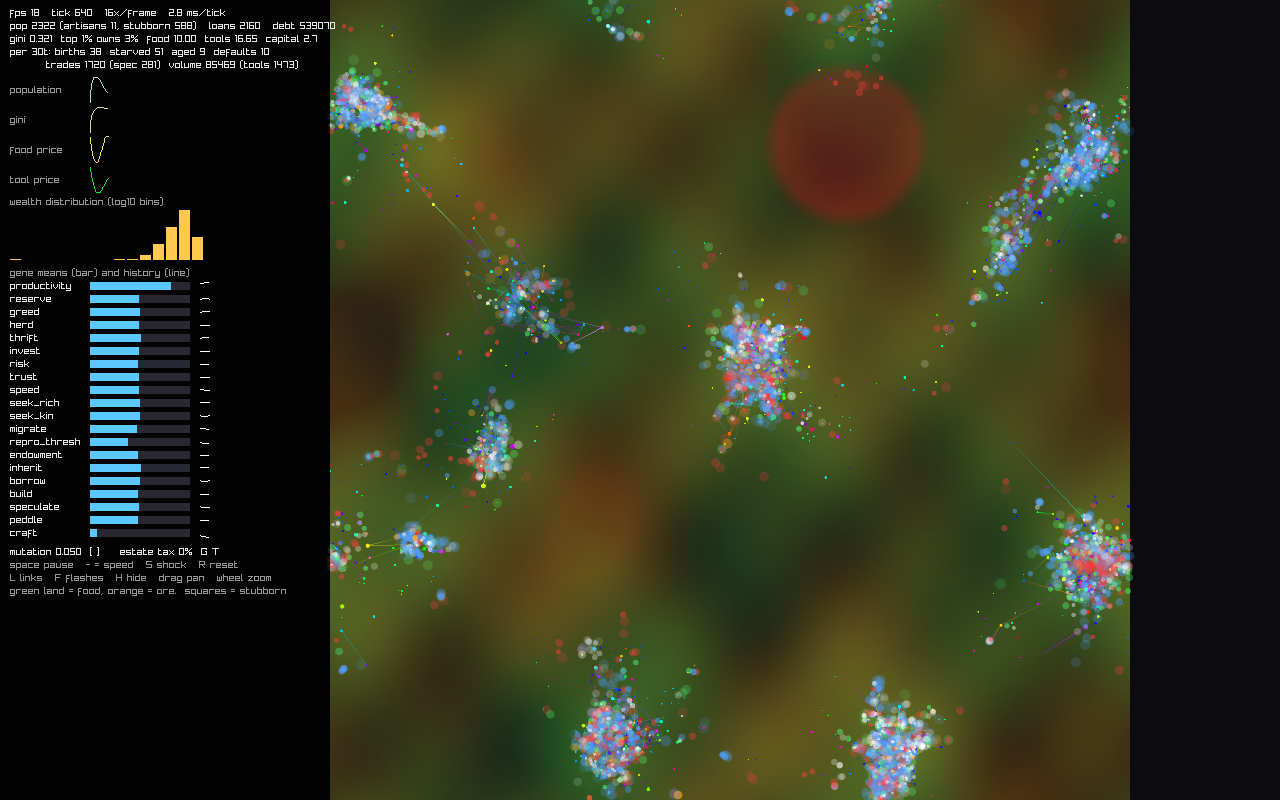
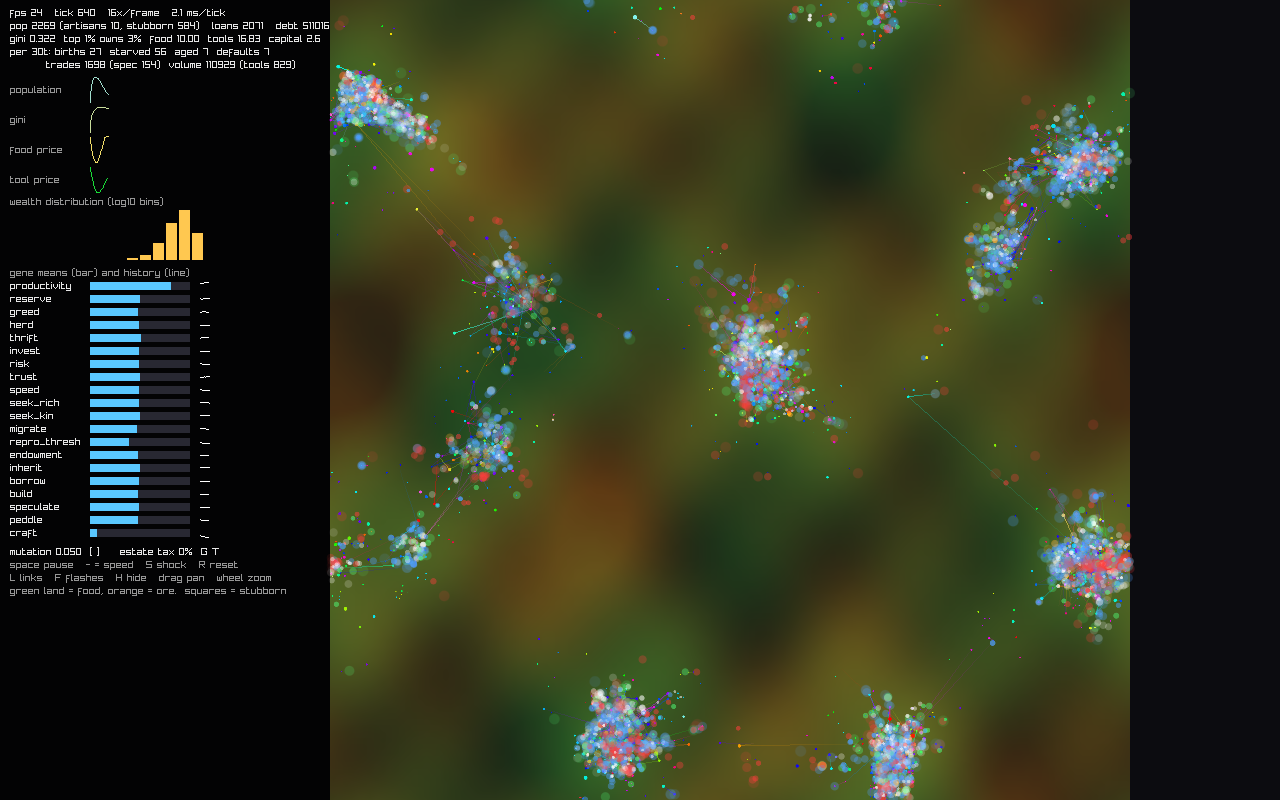
Document scale, and the optimisations that lost
Adds a Scale section with the measured throughput table, the memory cost
(~750 bytes per unit slot plus 40 bytes per cell; 427MB at --cap=524288),
and the caveat that cost tracks clustering rather than raw population -- a
freshly seeded continent ticks in ~40ms and slows as towns condense.

Records the four changes that measured *worse* and are deliberately not in
the code, so they do not get retried: splitting the six field propagations
into separate passes, per-unit register accumulators in the scan, moving
distance rejection between the producer and consumer loops, and one apparent
win that turned out to be a busy machine.

Documents the assertion tiers, since the obvious question about a sim this
heavily asserted is what a production run pays for: nothing, and there are
no assertions inside any per-unit loop.

Screenshots regenerated -- the trajectory shifted when compaction changed
the within-cell tie-break order. Same behaviour, different seed path.

diff --git a/README.md b/README.md
@@ -1,10 +1,13 @@
 # capitalism
 
-An agent-based economy that you watch rather than read about. A few thousand units farm, mine,
-haggle, lend, go broke, inherit and breed on a 2048×2048 wrap-around world, and every behaviour
-they have is a number in a genome that mutates at birth. Nobody is told how to act — prices,
-towns, trade routes, credit bubbles and inequality are what is left after the selection pressure
-runs for a few thousand ticks.
+An agent-based economy that you watch rather than read about. Units farm, mine, haggle, lend, go
+broke, inherit and breed on a wrap-around world, and every behaviour they have is a number in a
+genome that mutates at birth. Nobody is told how to act — prices, towns, trade routes, credit
+bubbles and inequality are what is left after the selection pressure runs for a few thousand ticks.
+
+The world is sized at startup. The default is 2,000 units on 2048×2048; `--cap`/`--grid` scale that
+to a continent — a quarter of a million units on 16384×16384 has been run to steady state with every
+invariant intact. See [Scale](#scale).
 
 LuaJIT + raylib, ~1,600 lines, no dependencies beyond the raylib shared library.
 
@@ -16,6 +19,7 @@ LuaJIT + raylib, ~1,600 lines, no dependencies beyond the raylib shared library.
 brew install luajit raylib     # macOS; any LuaJIT 2.1 + raylib 5/6 works
 luajit main.lua                # opens the window
 luajit check.lua               # headless: 5000 ticks, asserts every invariant, prints ticks/sec
+luajit bench.lua               # headless throughput, best of N passes, no assertions
 ```
 
 `main.lua` refuses to open a window until every raylib symbol resolves, the C struct layouts match,
@@ -142,16 +146,28 @@ gradient. Press `S` to drop one wherever the mouse is; `--shock-every=0` turns t
 Both binaries take the same world knobs; `--help` prints them with defaults.
 
 ```
---pop --money --artisans --yield --toolrate --mut --estate-tax
---shock-every --stubborn-founders --stubborn-birth
+--cap --grid --cell --compact-every                      world size and memory layout
+--pop --money --artisans --yield --toolrate --mut        economy
+--estate-tax --shock-every --stubborn-founders --stubborn-birth
 ```
 
+`--cap` is the hard population ceiling (a power of two), `--grid` the cells per side (a power of
+two), `--cell` the cell size in world units — which is also the interaction radius. The world is
+`grid × cell` across, so `--grid=1024` is a 16384×16384 map. Everything is allocated from these at
+`init()`, so memory is fixed from the moment it returns: about 750 bytes per unit slot plus 40
+bytes per cell — 427MB measured for `--cap=524288 --grid=1024`.
+
 `main.lua` adds `--seed --speed --shot --width --height --zoom --pick --no-selftest`.
-`check.lua` adds `--ticks --seed --fast`. Unknown flags, non-numbers and out-of-range values exit 2.
+`check.lua` adds `--ticks --seed --fast`. `bench.lua` adds `--ticks --warm --passes --seed`.
+Unknown flags, non-numbers and out-of-range values exit 2.
 
 ## How a tick works
 
-1. **Grid** — counting sort of everyone into 16×16 cells, so neighbour lookups are O(1).
+0. **Grid** — counting sort of the live set into `cell` × `cell` buckets, so neighbour lookups are
+   O(1). Every `--compact-every` ticks the units are then renumbered into that cell order and every
+   reference to them (loans, heirs, the live list, the UI selection) is remapped, so the per-unit
+   gathers that follow walk memory forwards instead of jumping around an array far larger than cache.
+   Slot identity carries no economic state, so this changes nothing but the addresses.
 2. **Produce** — food and tools from the local field × labour × capital, divided by crowding.
    Splitting effort between the two is penalised (squared shares), so specialising pays.
 3. **Scan** — each unit looks at its cell neighbourhood once: who is selling, who is rich, who is kin.
@@ -168,6 +184,43 @@ Both binaries take the same world knobs; `--help` prints them with defaults.
 **Money is closed and exact.** It is stored as integer-valued doubles and every transfer is floored,
 so `sum(money) + sum(escrow)` is the same number on tick 1 and tick 100,000. Only food and tools are
 created and destroyed. That invariant is what `check.lua` exists to defend.
+
+## Scale
+
+Everything is a flat FFI array sized at `init()`, so the only ceiling is memory. Measured on an
+M-series laptop, LuaJIT 2.1, single-threaded, assertions off (`bench.lua`, best of 3 passes):
+
+| world | cap | steady-state pop | ms/tick | ticks/s | unit-ticks/s |
+|---|---|---|---|---|---|
+| 2048² (default) | 16,384 | ~2,000 | 1.6 | 620 | 1.36M |
+| 8192² | 262,144 | ~126,000 | 143 | 7.0 | 0.92M |
+| 16384² | 524,288 | ~276,000 | 285 | 3.5 | 0.91M |
+
+Cost per unit depends on how clustered the population is, not just its size: a freshly seeded
+16384² world ticks in ~40ms because everyone is spread thin, and slows as towns condense and each
+unit acquires neighbours. The table is steady state, which is the pessimistic end.
+
+```sh
+luajit bench.lua --cap=524288 --grid=1024 --pop=200000 --ticks=25
+luajit main.lua  --cap=262144 --grid=512  --pop=100000     # watchable
+```
+
+A continent runs, but it runs at a few ticks per second, not at 60. Roughly half of a tick is
+neighbour discovery — about twelve candidates per unit, of which a third are inside the interaction
+radius — and that half is memory-latency bound, not compute bound. The profiler reports ~94% of the
+tick executing compiled traces with no aborts, so there is no interpreter overhead left to reclaim.
+
+Things that were tried and **lost**, so they are not in the code:
+
+- Splitting the six field propagations into one pass each. They share their index arithmetic; six
+  passes cost six times as much.
+- Holding the scan accumulators in registers per unit instead of read-modify-writing `SC`. The inner
+  loop is only ~7 iterations, and trace-entry overhead ate the saving.
+- Rejecting out-of-range candidates in the consumer instead of the producer. It moves the work, it
+  does not remove it.
+
+What would actually move the needle next is threads — the tick decomposes cleanly by cell — and
+LuaJIT has no shared-memory parallel loop. That is the argument for a C kernel, not the language.
 
 ## Genes
 
@@ -198,6 +251,8 @@ make check    # headless audit
 make lint     # luacheck
 make fmt      # stylua
 make ci       # fmt-check + lint + check
+make bench    # throughput, default world
+make bench-big # throughput, 16384x16384 continent
 make shots    # regenerate docs/*.png
 ```
 
@@ -207,9 +262,19 @@ code. Linting is [luacheck](https://github.com/lunarmodules/luacheck) with `.lua
 (`std = "luajit"`, so `ffi`, `bit` and `jit` are known globals). Both come from Homebrew:
 `brew install stylua luacheck`. The tree is warning-free; keep it that way.
 
-The simulation asserts aggressively. `sim.debug = true` turns on per-phase conservation checks inside
-`tick()`, `sim.validate()` reconciles every unit, loan and free-list against the ledger, and
-`sim.selftest()` runs the same seed twice and compares fingerprints. `check.lua` runs all three.
+The simulation asserts aggressively, in four tiers, so a production run pays for none of them:
+
+| tier | runs | cost |
+|---|---|---|
+| static checks on constants and struct layout | once per `init()` | free |
+| per-phase conservation checks | only when `sim.debug` is true | 1.1× |
+| `sim.validate()` — every unit, loan and free-list reconciled against the ledger | only when called | O(cap) |
+| `sim.selftest()` — same seed twice, fingerprints compared | `main.lua` startup unless `--no-selftest` | fixed, always on the default small world |
+
+There are no assertions inside any per-unit loop; the `if dbg then` branches sit once per phase.
+`check.lua` turns all of it on (`--fast` turns the per-phase tier off); `bench.lua` and `main.lua`
+leave it off. `validate()` uses FFI scratch rather than Lua tables so the full audit still runs at
+continental cap.
 
 [`PLAN.md`](PLAN.md) has the design rationale, the performance traps (LuaJIT trace aborts, raylib
 struct-by-value FFI calls), the bugs the assertions caught, and what is still broken — chiefly that
